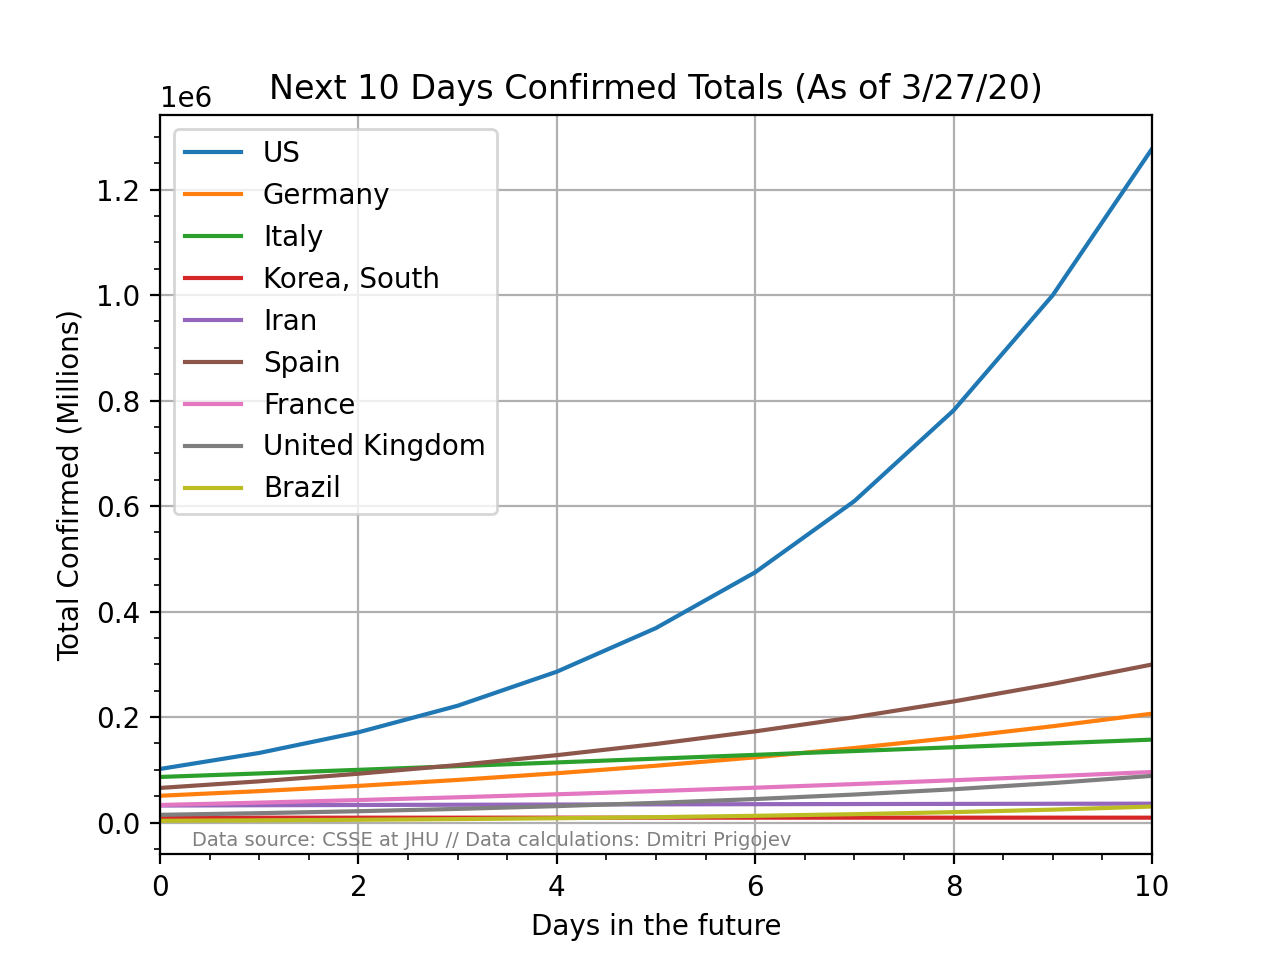
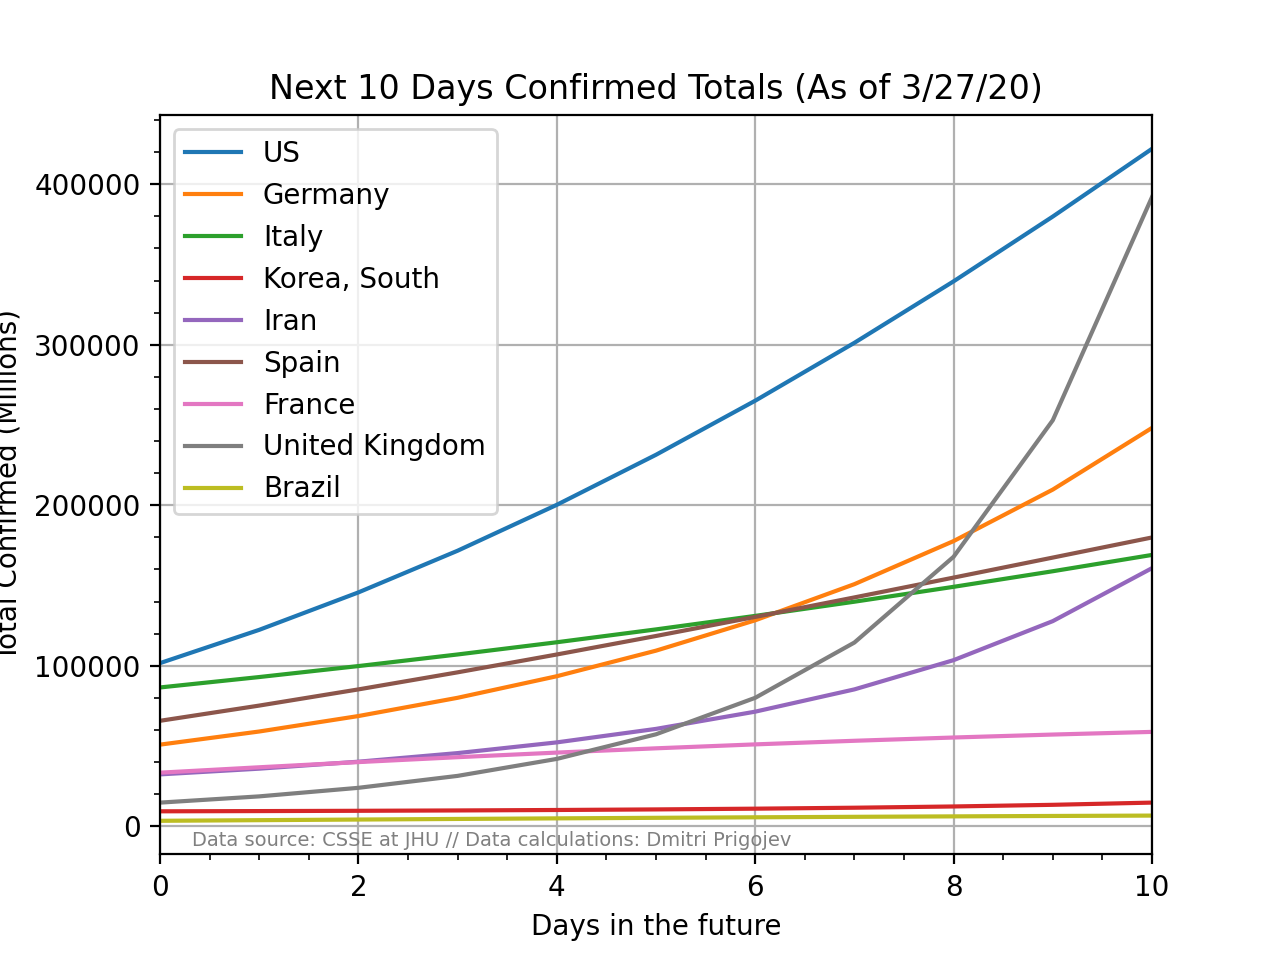
Change prediction analysis based on only last days' trend

diff --git a/predict_daily_growth_confirmed.py b/predict_daily_growth_confirmed.py
@@ -12,6 +12,7 @@ def exponential(x, a, k):
 
 dataset = pd.read_csv('data/country_confirmed_comparison.csv')
 days_to_predict = 10
+days_for_regression = 5
 countries = dataset.columns.values[1:]
 countries_collection = {}
 curve_fit_collection = {}
@@ -34,13 +35,16 @@ for c in countries:
     X = country_ds['index'].values.flatten()
     y = country_ds['rate'].values.flatten()
 
-    popt_exponential, pcov_exponential = scipy.optimize.curve_fit(exponential, X, y, p0=[0.5, -0.1])
+    X_regression = country_ds['index'].iloc[-days_for_regression:].values.flatten()
+    y_regression = country_ds['rate'].iloc[-days_for_regression:].values.flatten()
+
+    popt_exponential, pcov_exponential = scipy.optimize.curve_fit(exponential, X_regression, y_regression, p0=[0.5, -0.1])
     country_ds['curve_fit'] = country_ds.apply(lambda x: exponential(x['index'], popt_exponential[0], popt_exponential[1]), axis=1)
 
     # Calculate R squared of the regression line
-    residuals = y - exponential(X, popt_exponential[0], popt_exponential[1])
+    residuals = y_regression - exponential(X_regression, popt_exponential[0], popt_exponential[1])
     ss_res = np.sum(residuals ** 2)
-    ss_tot = np.sum((y - np.mean(y)) ** 2)
+    ss_tot = np.sum((y_regression - np.mean(y_regression)) ** 2)
     r_squared = round(1 - (ss_res / ss_tot), 3)
 
     # Copy plot data and the fit line into the collection and set the name to include R squared, to be displayed later
@@ -71,7 +75,7 @@ graph.minorticks_on()
 graph.set_title('Next '+str(days_to_predict)+' Days Confirmed Totals (As of '+as_of_date+')')
 graph.grid(True)
 graph.set_xlabel('Days in the future')
-graph.set_ylabel('Total Confirmed (Millions)')
+graph.set_ylabel('Total Confirmed')
 graph.figure.text(0.15, 0.115, "Data source: CSSE at JHU // Data calculations: Dmitri Prigojev", verticalalignment='bottom', horizontalalignment='left', color='grey', fontsize=7)
 graph.figure.savefig('graphs/predicting_confirmed.png', dpi=200)
 
@@ -86,7 +90,7 @@ for curve in curve_fit_collection:
     plt.plot(curve_fit_collection[curve]['index'].values, curve_fit_collection[curve]['curve_fit'].values)
     plt.title(curve, fontsize=8)
     n = n + 1
-plt.figtext(0.05, 0.05, "Data source: CSSE at JHU // Data calculations: Dmitri Prigojev", verticalalignment='bottom', horizontalalignment='left', color='grey', fontsize=7)
+plt.figtext(0.05, 0.05, "Regression trend based on last "+str(days_for_regression)+" days only\nData source: CSSE at JHU // Data calculations: Dmitri Prigojev", verticalalignment='bottom', horizontalalignment='left', color='grey', fontsize=7)
 plt.savefig('graphs/rates_w_regression_confirmed.png')
 
 

diff --git a/predict_daily_growth_deaths.py b/predict_daily_growth_deaths.py
@@ -12,6 +12,7 @@ def exponential(x, a, k):
 
 dataset = pd.read_csv('data/country_deaths_comparison.csv')
 days_to_predict = 10
+days_for_regression = 5
 countries = dataset.columns.values[1:]
 countries_collection = {}
 curve_fit_collection = {}
@@ -34,13 +35,16 @@ for c in countries:
     X = country_ds['index'].values.flatten()
     y = country_ds['rate'].values.flatten()
 
-    popt_exponential, pcov_exponential = scipy.optimize.curve_fit(exponential, X, y, p0=[0.5, -0.1])
+    X_regression = country_ds['index'].iloc[-days_for_regression:].values.flatten()
+    y_regression = country_ds['rate'].iloc[-days_for_regression:].values.flatten()
+
+    popt_exponential, pcov_exponential = scipy.optimize.curve_fit(exponential, X_regression, y_regression, p0=[0.5, -0.1])
     country_ds['curve_fit'] = country_ds.apply(lambda x: exponential(x['index'], popt_exponential[0], popt_exponential[1]), axis=1)
 
     # Calculate R squared of the regression line
-    residuals = y - exponential(X, popt_exponential[0], popt_exponential[1])
+    residuals = y_regression - exponential(X_regression, popt_exponential[0], popt_exponential[1])
     ss_res = np.sum(residuals ** 2)
-    ss_tot = np.sum((y - np.mean(y)) ** 2)
+    ss_tot = np.sum((y_regression - np.mean(y_regression)) ** 2)
     r_squared = round(1 - (ss_res / ss_tot), 3)
 
     # Copy plot data and the fit line into the collection and set the name to include R squared, to be displayed later
@@ -86,7 +90,7 @@ for curve in curve_fit_collection:
     plt.plot(curve_fit_collection[curve]['index'].values, curve_fit_collection[curve]['curve_fit'].values)
     plt.title(curve, fontsize=8)
     n = n + 1
-plt.figtext(0.05, 0.05, "Data source: CSSE at JHU // Data calculations: Dmitri Prigojev", verticalalignment='bottom', horizontalalignment='left', color='grey', fontsize=7)
+plt.figtext(0.05, 0.05, "Regression trend based on last "+str(days_for_regression)+" days only\nData source: CSSE at JHU // Data calculations: Dmitri Prigojev", verticalalignment='bottom', horizontalalignment='left', color='grey', fontsize=7)
 plt.savefig('graphs/rates_w_regression_deaths.png')
 
 
